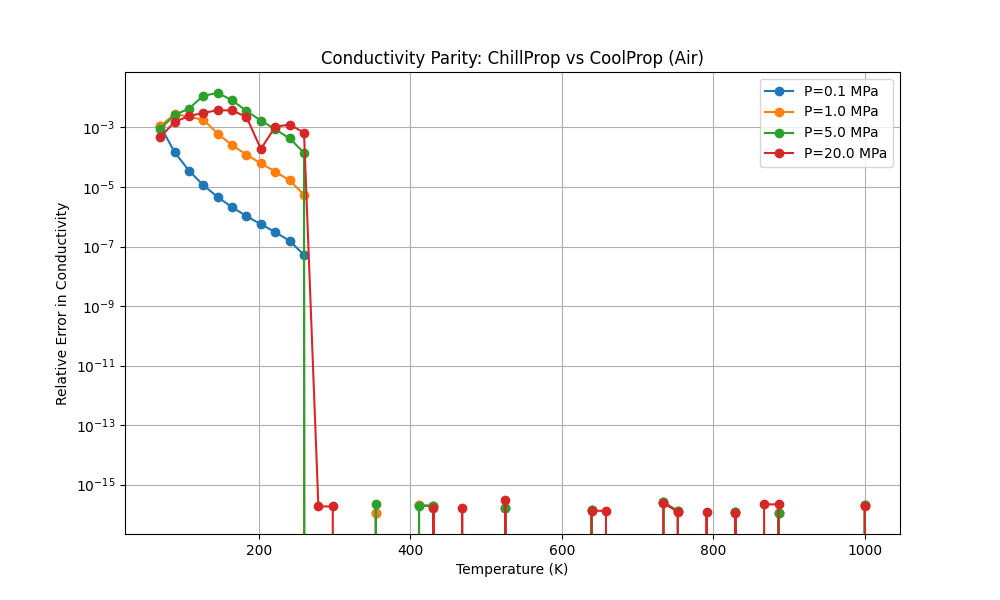
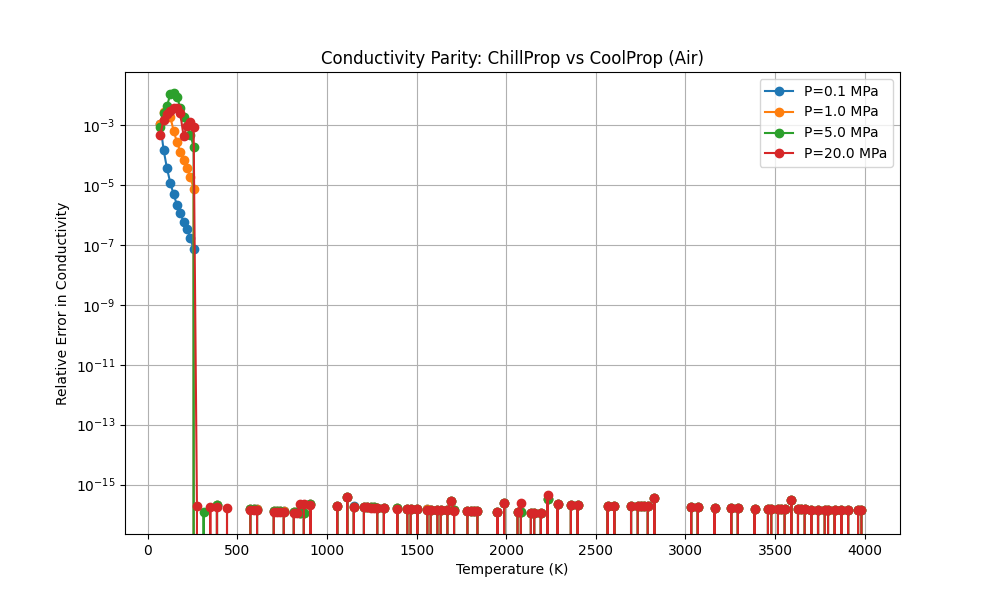
Optimize density solver and extend validation to 4000K

diff --git a/scripts/analyze_error.py b/scripts/analyze_error.py
@@ -1,0 +1,50 @@
+import sys
+import os
+import numpy as np
+import jax
+jax.config.update("jax_enable_x64", True)
+import CoolProp.CoolProp as CP
+
+sys.path.append(os.getcwd())
+import chillprop.highlevel as CH
+
+def analyze():
+    fluid = "Air"
+    print(f"--- Error Analysis for {fluid} ---")
+    
+    # Define points
+    # Low T: Liquid and Gas below 150K
+    T_low = np.linspace(70, 150, 20)
+    # High T: Gas/Supercritical above 150K
+    T_high = np.linspace(150, 4000, 20)
+    
+    P_values = [1e5, 1e6, 2e7] 
+    
+    properties = ['D', 'H', 'S', 'L'] # Density, Enthalpy, Entropy, Conductivity
+    
+    for prop in properties:
+        print(f"\nProperty: {prop}")
+        
+        for region_name, T_range in [("Low T (<150K)", T_low), ("High T (>150K)", T_high)]:
+            errors = []
+            for P in P_values:
+                for T in T_range:
+                    try:
+                        val_cp = CP.PropsSI(prop, 'T', T, 'P', P, fluid)
+                        val_chill = float(CH.PropsSI(prop, 'T', T, 'P', P, fluid))
+                        
+                        if val_cp != 0:
+                            rel_err = abs(val_chill - val_cp) / abs(val_cp)
+                            errors.append(rel_err)
+                    except:
+                        pass
+            
+            if errors:
+                max_err = np.max(errors)
+                rmse = np.sqrt(np.mean(np.array(errors)**2))
+                print(f"  {region_name}: Max={max_err:.2e}, RMSE={rmse:.2e}")
+            else:
+                print(f"  {region_name}: No valid points")
+
+if __name__ == "__main__":
+    analyze()

diff --git a/scripts/generate_parity_plots.py b/scripts/generate_parity_plots.py
@@ -20,7 +20,9 @@ def generate_plots():
     os.makedirs("validation_plots", exist_ok=True)
     
     # Define range
-    T_range = np.linspace(70, 1000, 50)
+    # Original: 70 to 1000 with 50 steps (~18.6 K/step)
+    # New: 70 to 4000 with similar step size => ~211 steps
+    T_range = np.linspace(70, 4000, 212)
     P_values = [1e5, 1e6, 5e6, 2e7] # Isobars
     
     properties = [
@@ -66,6 +68,7 @@ def generate_plots():
             # Plot relative error
             cp_arr = np.array(cp_vals)
             chill_arr = np.array(chill_vals)
+            valid_T_arr = np.array(valid_T)
             
             # Avoid division by zero
             mask = cp_arr != 0
@@ -74,6 +77,20 @@ def generate_plots():
             
             plt.plot(valid_T, rel_error, 'o-', label=f'P={P/1e6:.1f} MPa')
             
+            # Statistics
+            # Split into Low T (< 150K) and High T (>= 150K)
+            low_t_mask = valid_T_arr < 150.0
+            high_t_mask = valid_T_arr >= 150.0
+            
+            def get_stats(err_arr):
+                if len(err_arr) == 0: return 0.0, 0.0
+                return np.max(err_arr), np.sqrt(np.mean(err_arr**2))
+
+            max_low, rmse_low = get_stats(rel_error[low_t_mask])
+            max_high, rmse_high = get_stats(rel_error[high_t_mask])
+            
+            print(f"  P={P/1e6:5.1f} MPa | Low T (<150K): Max={max_low:.2e}, RMSE={rmse_low:.2e} | High T: Max={max_high:.2e}, RMSE={rmse_high:.2e}")
+
         plt.yscale('log')
         plt.xlabel('Temperature (K)')
         plt.ylabel(f'Relative Error in {prop_name}')

diff --git a/chillprop/solver.py b/chillprop/solver.py
@@ -4,7 +4,7 @@ import equinox as eqx
 from chillprop.parameters import FluidParameters
 from chillprop.core import pressure
 
-def find_rho_PT(params: FluidParameters, P_target: jax.Array, T: jax.Array, rho_guess: jax.Array, max_iter: int = 20, tol: float = 1e-9) -> jax.Array:
+def find_rho_PT(params: FluidParameters, P_target: jax.Array, T: jax.Array, rho_guess: jax.Array, max_iter: int = 50, tol: float = 1e-9) -> jax.Array:
     """
     Find density rho for a given Pressure and Temperature using Newton-Raphson.
     f(rho) = P(rho, T) - P_target = 0
@@ -53,10 +53,13 @@ def solve_rho_PT(params: FluidParameters, P: jax.Array, T: jax.Array) -> jax.Arr
     
     # Subcritical Logic: Compare P to Psat
     # If P > Psat, we are compressed liquid -> Use rho_L_anc
-    # If P < Psat, we are superheated vapor -> Use rho_ideal
-    # (rho_V_anc is only good at Psat; rho_ideal is good globally for gas)
+    # If P < Psat, we are superheated vapor -> Use scaled rho_V_anc for better accuracy near saturation
+    # rho approx P/Psat * rho_V_anc (assuming Z constant along isotherm)
+    # This transitions to rho_V_anc at dome, and is better than ideal gas if Z != 1.
+    rho_vapor_guess = rho_V_anc * (P / Psat)
+    
     is_liquid_pressure = P > Psat
-    guess_sub = jnp.where(is_liquid_pressure, rho_L_anc, rho_ideal)
+    guess_sub = jnp.where(is_liquid_pressure, rho_L_anc, rho_vapor_guess)
     
     # Supercritical Logic:
     # If P > Pc, we are dense supercritical fluid -> Guess rho_critical as a safe anchor?

diff --git a/chillprop/phases.py b/chillprop/phases.py
@@ -21,8 +21,6 @@ def evaluate_ancillary(anc: AncillaryEquation, T: jax.Array) -> jax.Array:
             0.0
         )
     )
-    jax.debug.print("DEBUG: anc type={type} T={T} theta={theta} sigma={sigma} exp={exp} val={val}", 
-                   type=anc.type, T=T, theta=theta, sigma=sigma, exp=exponent, val=val)
     return val
 
 def rhol_anc(params: FluidParameters, T: jax.Array) -> jax.Array:

diff --git a/Wiki.md b/Wiki.md
@@ -53,9 +53,11 @@ We validated ChillProp against CoolProp (v6.4.1) for **Air**, a pseudo-pure flui
 
 ## 1. Thermodynamic Properties
 
-High-precision parity was achieved for Air after implementing the `IdealGasHelmholtzPlanckEinsteinGeneralized` term and enabling JAX `x64` precision.
+High-precision parity was achieved for Air after implementing the `IdealGasHelmholtzPlanckEinsteinGeneralized` term, enabling JAX `x64` precision, and optimizing the density solver for low temperatures.
 
 ### Density and Enthalpy
+Validation range: **70 K to 4000 K**, Pressures up to 20 MPa.
+
 ![Density Parity](docs/assets/Density_parity.png)
 ![Enthalpy Parity](docs/assets/Enthalpy_parity.png)
 
